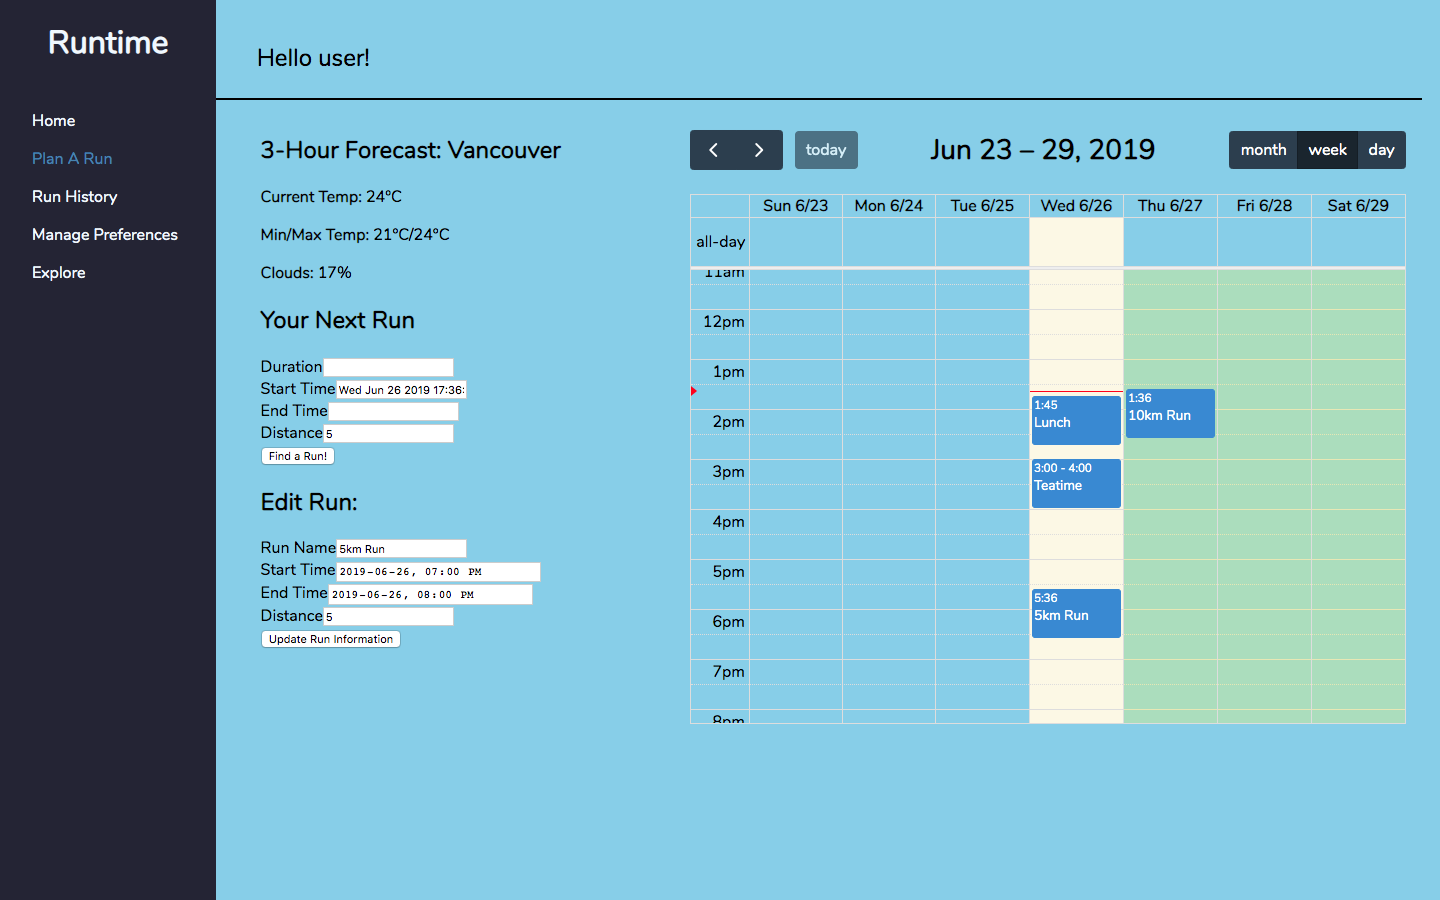
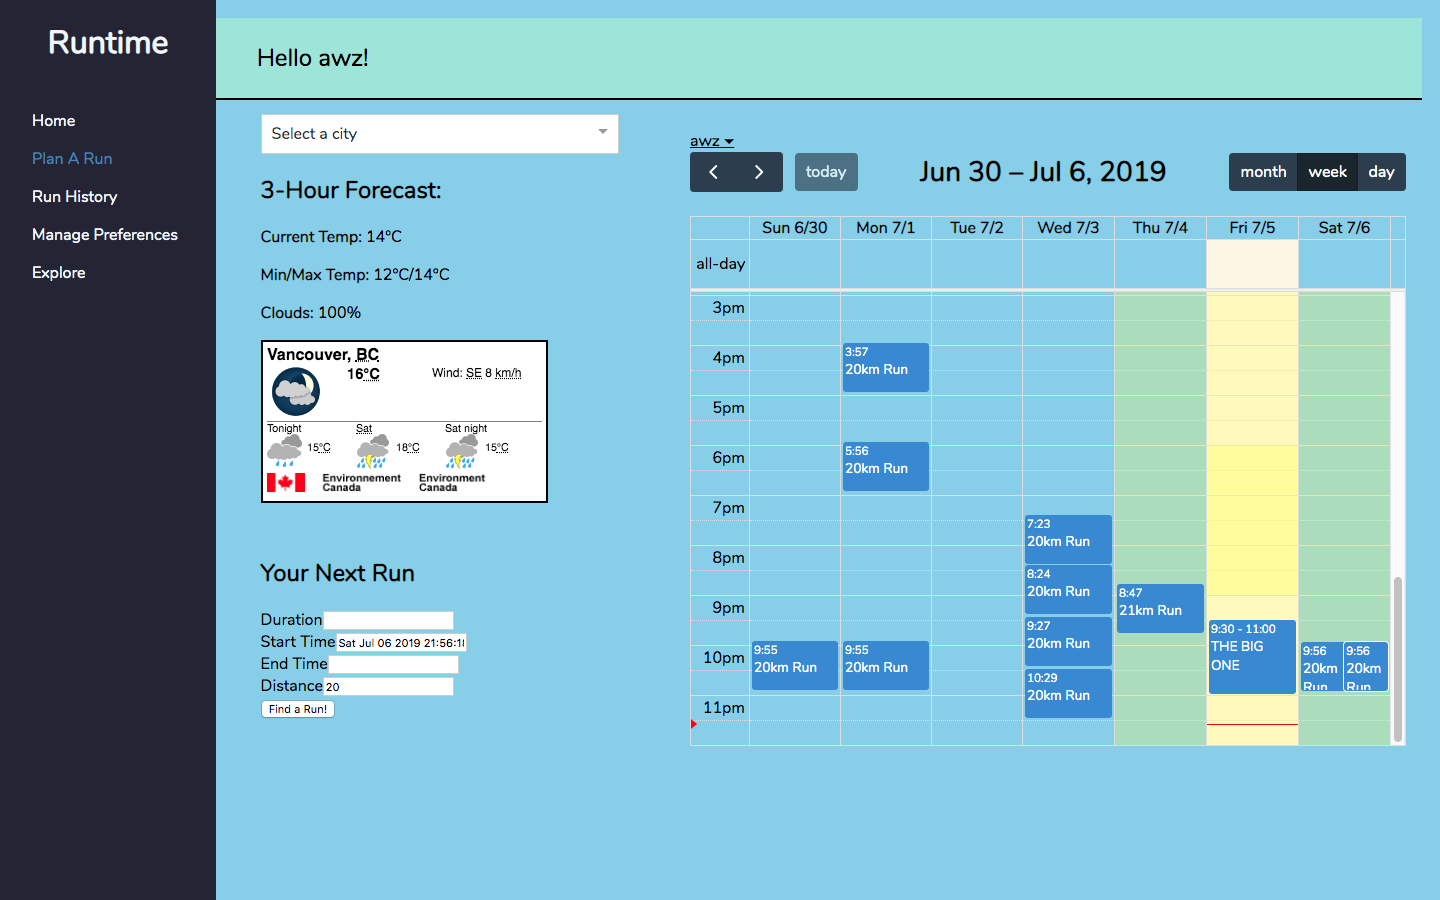
Events can now be added/modified by user and sent to Atlas
Fixed NextRun to display again

diff --git a/imports/ui/components/Calendar.js b/imports/ui/components/Calendar.js
@@ -9,6 +9,7 @@ import '@fullcalendar/core/main.css';
 import '@fullcalendar/daygrid/main.css';
 import '@fullcalendar/timegrid/main.css';
 
+import { withAccount } from './connector.js'
 import { connect } from 'react-redux';
 import { addEvent, dragEvent, toggleEventEditor,
   loadWeatherEvents, WEATHER_SUB, loadRunEvents, RUNS_SUB} from '../actions/index';
@@ -35,11 +36,11 @@ class Calendar extends Component {
  }
 
   render() {
-
+    // console.log(this.props);
     return (
       <div>
         <AccountsUIWrapper />
-        { (this.props.currentUser !== {}) ?
+        { (this.props.account.user !== {}) ?
           <FullCalendar
           dateClick={this.handleDateClick}
           eventClick={this.handleEventClick}
@@ -66,18 +67,20 @@ class Calendar extends Component {
 
   handleDateClick = (e) => {
     if (confirm("Would you like to add a run to " + e.dateStr + " ?")) {
-      let newEvent = {
         // Date.parse returns the ms elapsed since January 1, 1970, 00:00:00 UTC
         // toString(16) converts the ms to hex which is concatenated with a
         // random number between 0 to 1000
-        id: (Date.parse(new Date)).toString(16) + Math.floor(Math.random()*1000),
+        let unique = (Date.parse(new Date)).toString(16) + Math.floor(Math.random()*1000);
+        let newEvent = {
+        id: unique,
+        _id: unique,
         title: "New Run",
-        start: e.date,
+        start: e.date, // TODO: determine how to set timezone if needed
         allDay: e.allDay,
         distance: 5,
         category: "run",
-        owner: Meteor.userId(),
-        username: Meteor.user().username
+        owner: this.props.account.userId,
+        username: this.props.account.user.username,
       }
       console.log('newEvent')
       console.log(newEvent)
@@ -120,7 +123,6 @@ const mapStateToProps = (state) => {
     weatherReady: state.weatherMiddleware.weatherReady,
     weatherEvents: state.weatherMiddleware.weatherEvents,
     weatherSubscriptionStopped: state.weatherMiddleware.weatherSubscriptionStopped,
-    currentUser: Meteor.user() || {}
          };
 }
 
@@ -138,7 +140,9 @@ const mapDispatchToProps = dispatch => {
   );
 };
 
-export default connect(mapStateToProps, mapDispatchToProps)(Calendar);
+const CalendarContainer = withAccount(Calendar);
+
+export default connect(mapStateToProps, mapDispatchToProps)(CalendarContainer);
 
 // Calendar.propTypes = {
 //   loadingRuns: React.PropTypes.object,

diff --git a/imports/ui/reducers/calendarEventsReducer.js b/imports/ui/reducers/calendarEventsReducer.js
@@ -1,4 +1,6 @@
+import { Meteor } from 'meteor/meteor';
 import React from 'react';
+import Runs from '../../api/runs.js';
 import { STOP_SUBSCRIPTION } from 'meteor-redux-middlewares';
 
 import {
@@ -65,7 +67,7 @@ export function calendarEventsReducer(state = initialCalendarState, action) {
 	case ADD_EVENT:
     let newEvent = action.calendarEvent;
     console.log(newEvent);
-    console.log(state);
+    Runs.insert(newEvent); // any security needed here?
     // concat allows an array of events to be added vs [...events, event(s)]
     return {
       ...state,
@@ -73,6 +75,7 @@ export function calendarEventsReducer(state = initialCalendarState, action) {
     }
 
   case RENAME_EVENT:
+  // TODO: delete this as DRAG_EVENT is the succesor
     console.log("rename event fire");
     let e = action.id
     if (action.newName) {
@@ -97,9 +100,10 @@ export function calendarEventsReducer(state = initialCalendarState, action) {
   case DRAG_EVENT:
     console.log("event drag fire");
     let de = action.calendarEvent
-    console.log(de);
+    // console.log(de);
     let modifiedEvent = {
-      id    : de.event.id,
+      id     : de.event.id,
+      _id    : de.event.id,
       title : de.event.title,
       start : de.event.start,
       end : de.event.end,
@@ -110,8 +114,17 @@ export function calendarEventsReducer(state = initialCalendarState, action) {
       owner: de.event.extendedProps.owner,
       username: de.event.extendedProps.username,
     }
+    // https://docs.meteor.com/api/collections.html#modifiers
+    // Without using $-operators, a modifier is interpreted as a literal document,
+    // and completely replaces whatever was previously in the database.
+    // Find the document with ID 'de.id' and completely replace it.
+    Runs.update({_id: de.event.id}, modifiedEvent, function (err, docsChanged) {
+      if (err) console.log(err);
+      // console.log("event had id: " + de.event.id);
+      // console.log(docsChanged + " documents were changed");
+    })
 
-    console.log(modifiedEvent);
+    // console.log(modifiedEvent);
     return { ...state,
       calendarEvents: [...state.calendarEvents.filter( (event) => {
         return event.id !== (de.event.id)

diff --git a/imports/ui/reducers/index.js b/imports/ui/reducers/index.js
@@ -27,9 +27,9 @@ const nextRunReducer = (nextRun, action) => {
   nextRun = nextRun || {};
   if (action.type === 'NEXT_RUN') {
     // console.log("get next run");
-    let now = new Date();
-    console.log(action.calendarEvents);
-    if (action.calendarEvents.category) {
+    let now = moment();
+    // console.log(action.calendarEvents);
+    if (action.calendarEvents) {
       let events = action.calendarEvents.filter(calendarEvent => {
         // console.log(calendarEvent);
         return (calendarEvent.category === 'run') && (calendarEvent.start > now)
@@ -82,10 +82,10 @@ const eventEditorReducer = (editEventView, action) => {
       editorView: action.payload.toggle,
       calendarEvent: action.payload.calendarEvent
     }
-    console.log(newState);
+    // console.log(newState);
     return newState;
   }
-  console.log(editEventView);
+  // console.log(editEventView);
   return editEventView;
 };
 

diff --git a/imports/ui/components/EventEditor.js b/imports/ui/components/EventEditor.js
@@ -12,6 +12,7 @@ export class EventEditor extends Component {
       title     : e.title,
       start     : e.start,
       end       : e.end,
+      category  : e.extendedProps.category,
       distance  : e.extendedProps.distance,
       duration  : e.extendedProps.duration,
       owner     : e.extendedProps.owner,
@@ -47,7 +48,8 @@ export class EventEditor extends Component {
         start     : this.state.start,
         end       : this.state.end,
         extendedProps: {
-          distance  : this.state.distance,
+          category  : this.state.category,
+          distance  : parseFloat(this.state.distance),
           owner     : this.state.owner,
           username  : this.state.username
         }

diff --git a/client/main.jsx b/client/main.jsx
@@ -33,14 +33,3 @@ const {
 // unregister() to register() below. Note this comes with some pitfalls.
 // Learn more about service workers: https://bit.ly/CRA-PWA
 //serviceWorker.unregister();
-
-/*
-import React from 'react';
-import { Meteor } from 'meteor/meteor';
-import { render } from 'react-dom';
-import App from '/imports/ui/App'
-
-Meteor.startup(() => {
-  render(<App />, document.getElementById('react-target'));
-});
-*/

diff --git a/imports/ui/components/Info.js b/imports/ui/components/Info.js
@@ -136,7 +136,8 @@ class Info extends Component {
   }
 
   componentWillReceiveProps(nextProps) {
-    console.log("change in prop—getting next run");
+    // console.log("change in prop—getting next run");
+    // console.log(nextProps);
     this.props.getNextRun(nextProps.calendarEvents)
     // this.setState({runEditor: nextProps.editEventView.editorView})
   }

diff --git a/imports/ui/components/Topbar.js b/imports/ui/components/Topbar.js
@@ -5,7 +5,7 @@ import { withAccount } from './connector.js'
 class Topbar extends React.Component {
 
   render() {
-    console.log(this.props);
+    // console.log(this.props);
     let user = "...logging in...";
     if (this.props.account.user) user = this.props.account.user.username
 
